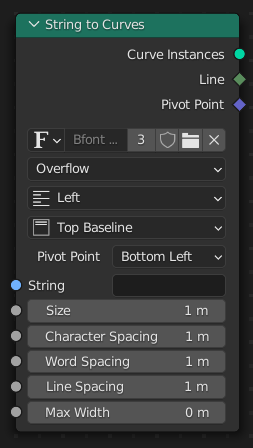
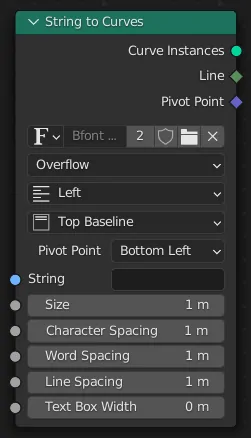
Geometry Nodes: String to Curves remove Max Width
Max Width is removed and replaced with "Text Box Width" in overflow mode.
See rB029e6b51746b

git-svn-id: https://svn.blender.org/svnroot/bf-manual/trunk/blender_docs@9296 c4de1f47-6596-e411-a384-0024e86c2797

diff --git a/manual/modeling/geometry_nodes/text/string_to_curves.rst b/manual/modeling/geometry_nodes/text/string_to_curves.rst
@@ -41,9 +41,6 @@ Word Spacing
 Line Spacing
    The distance between separate lines in the output. Scaled by the *Size* input.
 
-Max Width
-   Maximum width of the text, applies when the *Overflow* mode is set to *Overflow*.
-
 Text Box Width
    The maximum width of each line, though individual words will not be wrapped.
 
@@ -59,10 +56,9 @@ Font
 
 Overflow
    :Overflow:
-      Allows the text to use more space than the specified height. The width of the output is
-      still constrained by the *Max Width* input though.
+      Wraps the text at the *Text Box Width*.
    :Scale To Fit:
-      Scales the text size to fit the width and height.
+      Scales the text size to fit the *Text Box Width* and *Text Box Height*.
    :Truncate:
       Only outputs text characters that fit within the width and height, based on the *Size* input.
       Any part of the string that did not fit is moved to the *Remainder* output.
